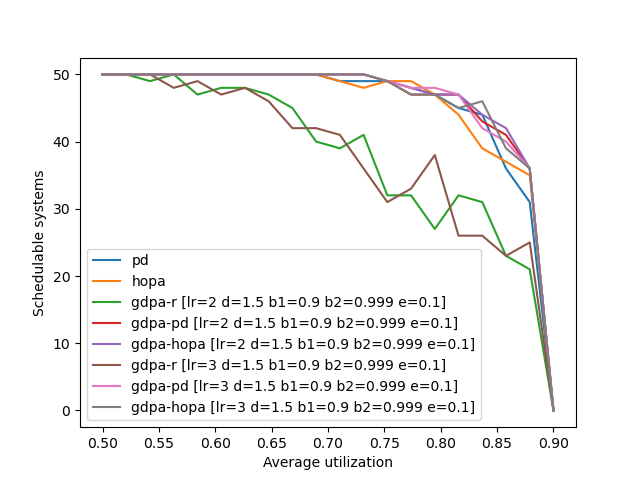
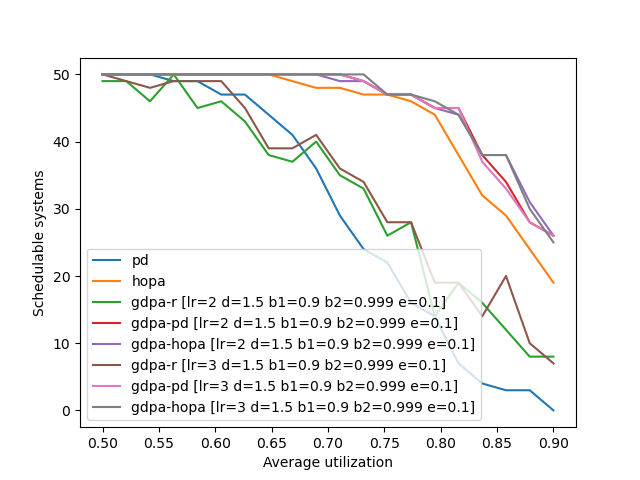
update

diff --git a/evaluation/gdpa_eval.py b/evaluation/gdpa_eval.py
@@ -4,7 +4,7 @@ from gradient_descent import *
 from generator import set_utilization
 import itertools
 import numpy as np
-from examples import get_medium_system
+from examples import get_medium_system, get_big_system
 from random import Random
 from multiprocessing import Pool
 from datetime import datetime
@@ -13,7 +13,7 @@ from functools import partial
 import matplotlib.pyplot as plt
 
 
-lrs = [2, 3]
+lrs = [3]
 deltas = [1.5]
 beta1s = [0.9]
 beta2s = [0.999]
@@ -24,15 +24,18 @@ utilization_max = 0.9
 utilization_steps = 20
 
 
-def parameters_comparison():
+def parameters_comparison(label):
     random = Random(42)
     utilizations = np.linspace(utilization_min, utilization_max, utilization_steps)
-    systems = [get_medium_system(random, utilization_min) for _ in range(population)]
+    systems = [get_big_system(random) for _ in range(population)]
     names, _ = zip(*get_assignments(lrs, deltas, beta1s, beta2s, epsilons))
     results = np.zeros((len(names), len(utilizations)))
 
     job = 0
     for u, utilization in enumerate(utilizations):
+        if utilization < 0.8:
+            continue
+
         # set utilization to the generated systems
         for system in systems:
             set_utilization(system, utilization)
@@ -46,11 +49,11 @@ def parameters_comparison():
                 if job % 25 == 0:
                     print(f"{datetime.now()} : job={job}")
                 if job % population == 0:
-                    excel("1", names, utilizations, results)
-                    chart("1", names, utilizations, results, save=True)
+                    excel(label, names, utilizations, results)
+                    chart(label, names, utilizations, results, save=True)
 
-    excel("1", names, utilizations, results)
-    chart("1", names, utilizations, results, save=True)
+    excel(label, names, utilizations, results)
+    chart(label, names, utilizations, results, save=True)
 
 
 def print_overview(label, names, utilizations, results):
@@ -109,15 +112,15 @@ def get_assignments(lrs, deltas, beta1s, beta2s, epsilons):
     assigs = [("pd", pd), ("hopa", hopa)]
 
     for lr, delta, beta1, beta2, epsilon in params:
-        assig = GDPA(proxy=analysis, verbose=False, initial=RandomAssignment(normalize=True),
-                     iterations=200, cost_fn=invslack, analysis=analysis, delta=delta,
-                     optimizer=Adam(lr=lr, beta1=beta1, beta2=beta2, epsilon=epsilon))
-        assigs.append((f"gdpa-r [lr={lr} d={delta} b1={beta1} b2={beta2} e={epsilon}]", assig))
-
-        assig = GDPA(proxy=analysis, verbose=False, initial=pd,
-                     iterations=200, cost_fn=invslack, analysis=analysis, delta=delta,
-                     optimizer=Adam(lr=lr, beta1=beta1, beta2=beta2, epsilon=epsilon))
-        assigs.append((f"gdpa-pd [lr={lr} d={delta} b1={beta1} b2={beta2} e={epsilon}]", assig))
+        # assig = GDPA(proxy=analysis, verbose=False, initial=RandomAssignment(normalize=True),
+        #              iterations=200, cost_fn=invslack, analysis=analysis, delta=delta,
+        #              optimizer=Adam(lr=lr, beta1=beta1, beta2=beta2, epsilon=epsilon))
+        # assigs.append((f"gdpa-r [lr={lr} d={delta} b1={beta1} b2={beta2} e={epsilon}]", assig))
+        #
+        # assig = GDPA(proxy=analysis, verbose=False, initial=pd,
+        #              iterations=200, cost_fn=invslack, analysis=analysis, delta=delta,
+        #              optimizer=Adam(lr=lr, beta1=beta1, beta2=beta2, epsilon=epsilon))
+        # assigs.append((f"gdpa-pd [lr={lr} d={delta} b1={beta1} b2={beta2} e={epsilon}]", assig))
 
         assig = GDPA(proxy=analysis, verbose=False, initial=hopa,
                      iterations=200, cost_fn=invslack, analysis=analysis, delta=delta,
@@ -148,4 +151,4 @@ def get_sched_test():
 
 
 if __name__ == '__main__':
-    parameters_comparison()
+    parameters_comparison("big2")

diff --git a/matrix/single.py b/matrix/single.py
@@ -1,0 +1,68 @@
+import numpy as np
+
+# c = np.array([[0.5, 0.5, 3]])
+# o = np.ones((3, 1))
+# t = np.array([[0, 0.5, 0.5], [0, 0, 1/3], [0, 0, 0]])
+# d = np.eye(3)
+# r = np.zeros((1, 3))
+#
+# # x = o@r*t+d
+# r = c@np.ceil(o@r*t+d)
+# print(r)
+#
+# # x = o@r*t+d
+# r = c@np.ceil(o@r*t+d)
+# print(r)
+#
+# # x = o@r*t+d
+# r = c@np.ceil(o@r*t+d)
+# print(r)
+#
+# # x = o@r*t+d
+# r = c@np.ceil(o@r*t+d)
+# print(r)
+#
+
+
+def analysis(wcet, periods, priorities):
+    vo = np.ones(wcet.shape).transpose()
+    ho = np.ones(wcet.shape)
+    diag = np.eye(wcet.shape[1])
+
+    # prepare pmatrix
+    pm1 = priorities.transpose() @ ho
+    pm2 = vo @ priorities
+    pm = np.clip(pm1-pm2, 0, 1)
+
+    # prepare imatrix
+    im = pm / (periods.transpose() @ ho)
+
+    # initialize response times
+    r_prev = np.zeros(wcet.shape)
+    r = np.copy(wcet)
+
+    while not np.allclose(r, r_prev):
+        r_prev = r
+        r = wcet@np.ceil(vo@r*im+diag)
+        print(r)
+
+    return r
+
+
+# def pmatrix(priorities):
+#     i1 = priorities.transpose() @ np.ones(priorities.shape)
+#     i2 = np.ones(priorities.shape).transpose() @ priorities
+#     return np.clip(i1-i2, 0, 1)
+#
+#
+# def imatrix(pmatrix, periods):
+#     return pmatrix / (periods.transpose() @ np.ones(periods.shape))
+
+
+if __name__ == '__main__':
+    wcets = np.array([[0.5, 0.5, 3]])
+    priorities = np.array([[3, 2, 1]])
+    periods = np.array([[2, 3, 6]])
+
+    r = analysis(wcets, periods, priorities)
+    print(r)
